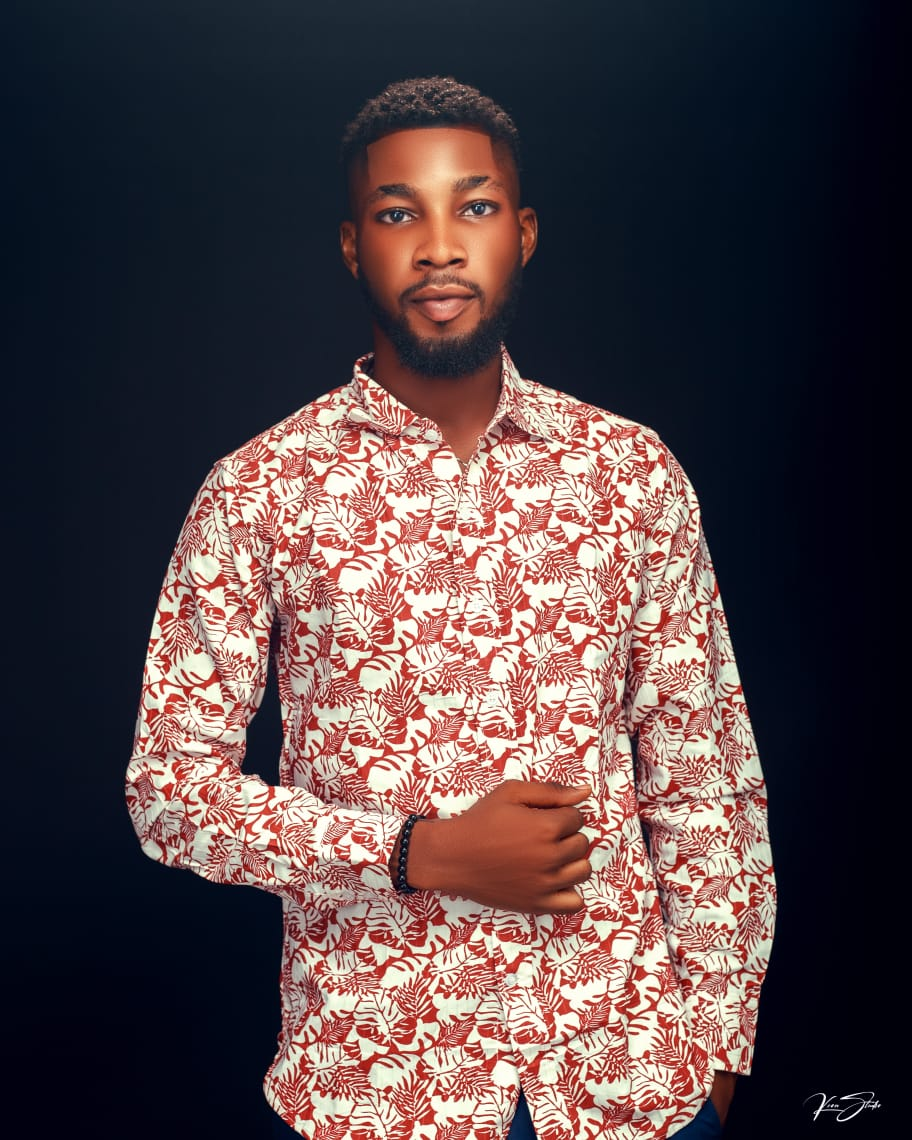
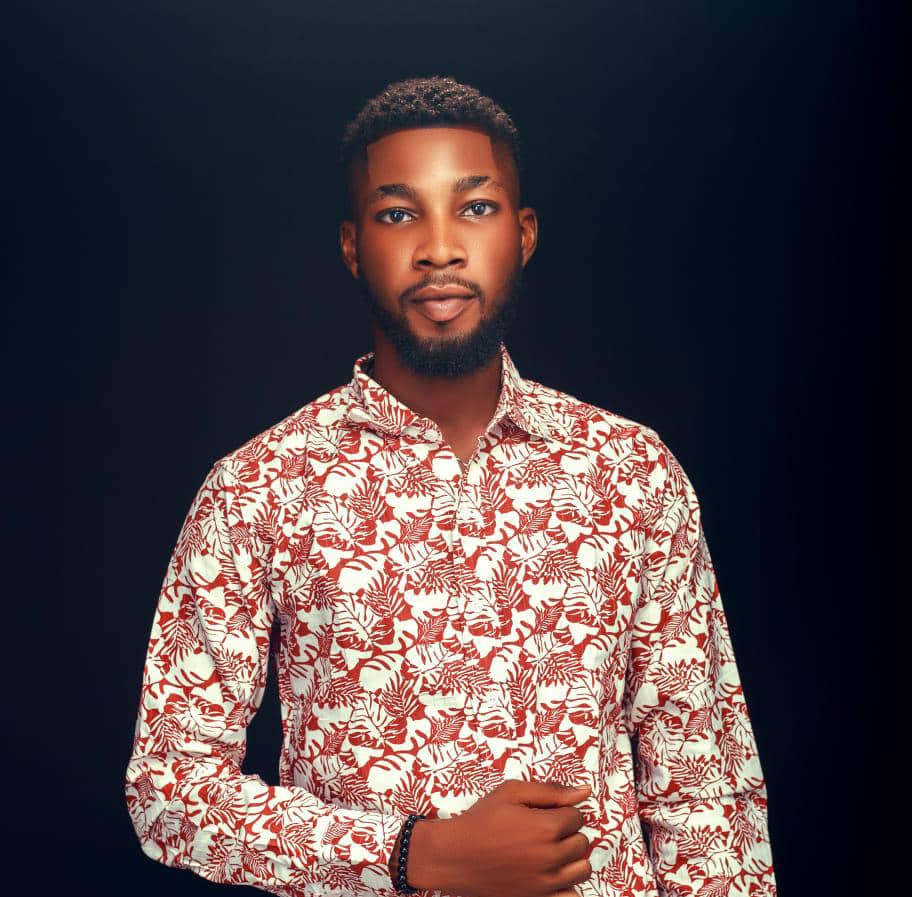
Fixed members image and added admininstration tag

diff --git a/resources/views/about.blade.php b/resources/views/about.blade.php
@@ -73,7 +73,7 @@
                     </div>
                 </div>
                 <div class="bg-white border border-green-700 rounded-lg">
-                    <img class="w-full h-72 rounded-t-lg object-cover" src="./images/Peju.jpg" alt="ADESANWO Adepeju Mary">
+                    <img class="w-full h-76 rounded-t-lg object-cover" src="./images/Peju.jpg" alt="ADESANWO Adepeju Mary">
                     <div class="p-5 text-center">
                         <h3 class="uppercase text-gray-900 font-bold text-base">ADESANWO Adepeju Mary</h3>
                         <p class="text-gray-900 font-normal text-base">Vice President</p>
@@ -88,7 +88,7 @@
                     </div>
                 </div>
                 <div class="bg-white border border-green-700 rounded-lg">
-                    <img class="w-full h-72 rounded-t-lg object-cover" src="./images/Victor.jpg" alt="ADEbanjo Victor Oluwasegun">
+                    <img class="w-full h-76 rounded-t-lg object-cover" src="./images/Victor.jpg" alt="ADEbanjo Victor Oluwasegun">
                     <div class="p-5 text-center">
                         <h3 class="uppercase text-gray-900 font-bold text-base">Adebanjo Victor Oluwasegun</h3>
                         <p class="text-gray-900 font-normal text-base">Ass General Secretary</p>
@@ -96,7 +96,7 @@
                 </div>
 
                 <div class="bg-white border border-green-700 rounded-lg">
-                    <img class="w-full h-72 rounded-t-lg object-cover" src="./images/Ire.jpg" alt="Odeneye Iremide Pluwateniola">
+                    <img class="w-full h-76 rounded-t-lg object-cover" src="./images/Ire.jpg" alt="Odeneye Iremide Pluwateniola">
                     <div class="p-5 text-center">
                         <h3 class="uppercase text-gray-900 font-bold text-base">Odeneye Iremide Oluwateniola</h3>
                         <p class="text-gray-900 font-normal text-base">Financial Secretary</p>
@@ -104,7 +104,7 @@
                 </div>
 
                 <div class="bg-white border border-green-700 rounded-lg">
-                    <img class="w-full h-72 rounded-t-lg object-cover" src="./images/Ziah.jpg" alt="Akanni Olasunkanmi">
+                    <img class="w-full h-76 rounded-t-lg object-cover" src="./images/Ziah.jpg" alt="Akanni Olasunkanmi">
                     <div class="p-5 text-center">
                         <h3 class="uppercase text-gray-900 font-bold text-base">Akanni Olasunkanmi</h3>
                         <p class="text-gray-900 font-normal text-base">Social Director 1</p>
@@ -119,7 +119,7 @@
                 </div>
 
                 <div class="bg-white border border-green-700 rounded-lg">
-                    <img class="w-full h-72 rounded-t-lg object-cover" src="./images/adeemma.jpeg" alt="Adesemowo EMMANUEL">
+                    <img class="w-full h-76 rounded-t-lg object-cover" src="./images/adeemma.JPG" alt="Adesemowo EMMANUEL">
                     <div class="p-5 text-center">
                         <h3 class="uppercase text-gray-900 font-bold text-base">Adesemowo EMMANUEL</h3>
                         <p class="text-gray-900 font-normal text-base">ICT Director 1</p>
@@ -134,14 +134,14 @@
                 </div>
 
                 <div class="bg-white border border-green-700 rounded-lg">
-                    <img class="w-full h-72 rounded-t-lg object-cover" src="./images/moyo.jpg" alt="Udebhulu Gideon Moyosore">
+                    <img class="w-full h-72 rounded-t-lg object-cover" src="./images/moyo.JPG" alt="Udebhulu Gideon Moyosore">
                     <div class="p-5 text-center">
                         <h3 class="uppercase text-gray-900 font-bold text-base">Udebhulu Gideon Moyosore</h3>
                         <p class="text-gray-900 font-normal text-base">Welfare Director 1</p>
                     </div>
                 </div>
                 <div class="bg-white border border-green-700 rounded-lg">
-                    <img class="w-full h-72 rounded-t-lg object-cover" src="./images/Oriade.jpg" alt="Adeyinka Samuel Oriade">
+                    <img class="w-full h-76 rounded-t-lg object-cover" src="./images/Oriade.jpg" alt="Adeyinka Samuel Oriade">
                     <div class="p-5 text-center">
                         <h3 class="uppercase text-gray-900 font-bold text-base">Adeyinka Samuel Oriade</h3>
                         <p class="text-gray-900 font-normal text-base">Welfare Director 2</p>
@@ -149,7 +149,7 @@
                 </div>
 
                 <div class="bg-white border border-green-700 rounded-lg">
-                    <img class="w-full h-72 rounded-t-lg object-cover" src="./images/Zickel.jpg" alt="Tiamiyu Olugbenga Ezekiel">
+                    <img class="w-full h-72 rounded-t-lg object-cover" src="./images/Zickel.JPG" alt="Tiamiyu Olugbenga Ezekiel">
                     <div class="p-5 text-center">
                         <h3 class="uppercase text-gray-900 font-bold text-base">Tiamiyu Olugbenga Ezekiel</h3>
                         <p class="text-gray-900 font-normal text-base">Sport Director</p>

diff --git a/resources/views/events.blade.php b/resources/views/events.blade.php
@@ -15,54 +15,54 @@
                     <img src="./images/powerbi.png" alt="DSN AI Summit">
                     <div class="p-4">
                         <h2 class="text-gray-900 font-bold text-base">DSN AI Summit</h2>
-                        <p class="mt-3 font-normal text-gray-900 text-sm">
+                        {{-- <p class="mt-3 font-normal text-gray-900 text-sm">
                             DSN AI bootcamp, an all-expenses-paid learning bootcamp that builds Africa s...
-                        </p>
+                        </p> --}}
                     </div>
                 </div>
                 <div class="bg-white shadow-lg shadow-gray-500 rounded-t-lg">
                     <img src="./images/events/oldschoolday.JPG" alt="Old school day">
                     <div class="p-4">
                         <h2 class="text-gray-900 font-bold text-base">Old school day</h2>
-                        <p class="mt-3 font-normal text-gray-900 text-sm">
+                        {{-- <p class="mt-3 font-normal text-gray-900 text-sm">
                             DSN AI bootcamp, an all-expenses-paid learning bootcamp that builds Africa s...
-                        </p>
+                        </p> --}}
                     </div>
                 </div>
                 <div class="bg-white shadow-lg shadow-gray-500 rounded-t-lg">
                     <img src="./images/events/departmental_cup.jpeg" alt="Departmental Cup">
                     <div class="p-4">
                         <h2 class="text-gray-900 font-bold text-base">Departmental Cup</h2>
-                        <p class="mt-3 font-normal text-gray-900 text-sm">
+                        {{-- <p class="mt-3 font-normal text-gray-900 text-sm">
                             DSN AI bootcamp, an all-expenses-paid learning bootcamp that builds Africa s...
-                        </p>
+                        </p> --}}
                     </div>
                 </div>
                 <div class="bg-white shadow-lg shadow-gray-500 rounded-t-lg">
                     <img src="./images/events/cmp_week.jpeg" alt="CMP Week">
                     <div class="p-4">
                         <h2 class="text-gray-900 font-bold text-base">CMP Week</h2>
-                        <p class="mt-3 font-normal text-gray-900 text-sm">
+                        {{-- <p class="mt-3 font-normal text-gray-900 text-sm">
                             DSN AI bootcamp, an all-expenses-paid learning bootcamp that builds Africa s...
-                        </p>
+                        </p> --}}
                     </div>
                 </div>
                 <div class="bg-white shadow-lg shadow-gray-500 rounded-t-lg">
                     <img src="./images/events/paint_and_sip.jpeg" alt="Paint and Sip">
                     <div class="p-4">
                         <h2 class="text-gray-900 font-bold text-base">Paint and Sip</h2>
-                        <p class="mt-3 font-normal text-gray-900 text-sm">
+                        {{-- <p class="mt-3 font-normal text-gray-900 text-sm">
                             DSN AI bootcamp, an all-expenses-paid learning bootcamp that builds Africa s...
-                        </p>
+                        </p> --}}
                     </div>
                 </div>
                 <div class="bg-white shadow-lg shadow-gray-500 rounded-t-lg">
                     <img src="./images/events/freshers_night.jpeg" alt="Freshers Night">
                     <div class="p-4">
                         <h2 class="text-gray-900 font-bold text-base">Freshers Night</h2>
-                        <p class="mt-3 font-normal text-gray-900 text-sm">
+                        {{-- <p class="mt-3 font-normal text-gray-900 text-sm">
                             DSN AI bootcamp, an all-expenses-paid learning bootcamp that builds Africa s...
-                        </p>
+                        </p> --}}
                     </div>
                 </div>
             </div>

diff --git a/resources/views/index.blade.php b/resources/views/index.blade.php
@@ -130,7 +130,7 @@
                     </div>
                 </div>
                 <div class="bg-white border border-green-700 rounded-lg">
-                    <img class="w-full h-76 lg:h-72 rounded-t-lg object-cover" src="./images/Dl_Spenser.jpg" alt="Adenibi Dennis">
+                    <img class="w-full h-72 lg:h-72 rounded-t-lg object-cover" src="./images/Dl_Spenser.jpg" alt="Adenibi Dennis">
                     <div class="p-5 text-center">
                         <h3 class="uppercase text-gray-900 font-bold text-base">Adenibi Dennis</h3>
                         <p class="text-gray-900 font-normal text-base">Social Director 2</p>
@@ -138,14 +138,14 @@
                 </div>
 
                 <div class="bg-white border border-green-700 rounded-lg">
-                    <img class="w-full h-76 lg:h-72 rounded-t-lg object-cover" src="./images/adeemma.jpeg" alt="Adesemowo EMMANUEL">
+                    <img class="w-full h-76 lg:h-72 rounded-t-lg object-cover" src="./images/adeemma.JPG" alt="Adesemowo EMMANUEL">
                     <div class="p-5 text-center">
                         <h3 class="uppercase text-gray-900 font-bold text-base">Adesemowo EMMANUEL</h3>
                         <p class="text-gray-900 font-normal text-base">ICT Director 1</p>
                     </div>
                 </div>
                 <div class="bg-white border border-green-700 rounded-lg">
-                    <img class="w-full h-76 lg:h-72 rounded-t-lg object-cover" src="./images/Teju.jpg" alt="Tejuosho Emmanuel Ayomide">
+                    <img class="w-full h-72 lg:h-72 rounded-t-lg object-cover" src="./images/Teju.jpg" alt="Tejuosho Emmanuel Ayomide">
                     <div class="p-5 text-center">
                         <h3 class="uppercase text-gray-900 font-bold text-base">Tejuosho Emmanuel Ayomide</h3>
                         <p class="text-gray-900 font-normal text-base">ICT Director 2</p>
@@ -153,7 +153,7 @@
                 </div>
 
                 <div class="bg-white border border-green-700 rounded-lg">
-                    <img class="w-full h-76 lg:h-72 rounded-t-lg object-cover" src="./images/moyo.jpg" alt="Udebhulu Gideon Moyosore">
+                    <img class="w-full h-72 lg:h-72 rounded-t-lg object-cover" src="./images/moyo.JPG" alt="Udebhulu Gideon Moyosore">
                     <div class="p-5 text-center">
                         <h3 class="uppercase text-gray-900 font-bold text-base">Udebhulu Gideon Moyosore</h3>
                         <p class="text-gray-900 font-normal text-base">Welfare Director 1</p>
@@ -168,7 +168,7 @@
                 </div>
 
                 <div class="bg-white border border-green-700 rounded-lg">
-                    <img class="w-full h-76 lg:h-72 rounded-t-lg object-cover" src="./images/Zickel.jpg" alt="Tiamiyu Olugbenga Ezekiel">
+                    <img class="w-full h-76 lg:h-72 rounded-t-lg object-cover" src="./images/Zickel.JPG" alt="Tiamiyu Olugbenga Ezekiel">
                     <div class="p-5 text-center">
                         <h3 class="uppercase text-gray-900 font-bold text-base">Tiamiyu Olugbenga Ezekiel</h3>
                         <p class="text-gray-900 font-normal text-base">Sport Director</p>
@@ -176,7 +176,7 @@
                 </div>
 
                 <div class="bg-white border border-green-700 rounded-lg">
-                    <img class="w-full h-76 lg:h-72 rounded-t-lg object-cover" src="./images/Kuku.jpg" alt="Muburak Afolabi Kuku">
+                    <img class="w-full h-72 lg:h-72 rounded-t-lg object-cover" src="./images/Kuku.jpg" alt="Muburak Afolabi Kuku">
                     <div class="p-5 text-center">
                         <h3 class="uppercase text-gray-900 font-bold text-base">Kuku Mubaraq Afolabi</h3>
                         <p class="text-gray-900 font-normal text-base">Public Relation Officer</p>

diff --git a/resources/views/gallery.blade.php b/resources/views/gallery.blade.php
@@ -29,6 +29,10 @@
             <img class="w-full h-72 object-cover rounded-sm" src="./images/gallery/17.jpeg" alt="">
             <img class="w-full h-72 object-cover rounded-sm" src="./images/gallery/18.jpeg" alt="">
             <img class="w-full h-72 object-cover rounded-sm" src="./images/gallery/19.jpeg" alt="">
+            <img class="w-full h-72 object-cover rounded-sm" src="./images/gallery/20.jpg" alt="">
+            <img class="w-full h-72 object-cover rounded-sm" src="./images/gallery/21.JPG" alt="">
+            <img class="w-full h-72 object-cover rounded-sm" src="./images/gallery/22.JPG" alt="">
+            <img class="w-full h-72 object-cover rounded-sm" src="./images/gallery/23.JPG" alt="">
         </div>
     </section>
 @endsection

diff --git a/resources/views/layouts/app.blade.php b/resources/views/layouts/app.blade.php
@@ -175,6 +175,9 @@
             </a>
         </div>
     </div>
+    <div class="text-gray-100 bg-black text-base font-normal text-center py-3">
+        ELIHS LED ADMINISTRATION'23
+    </div>
 </footer>
 </div>
 
